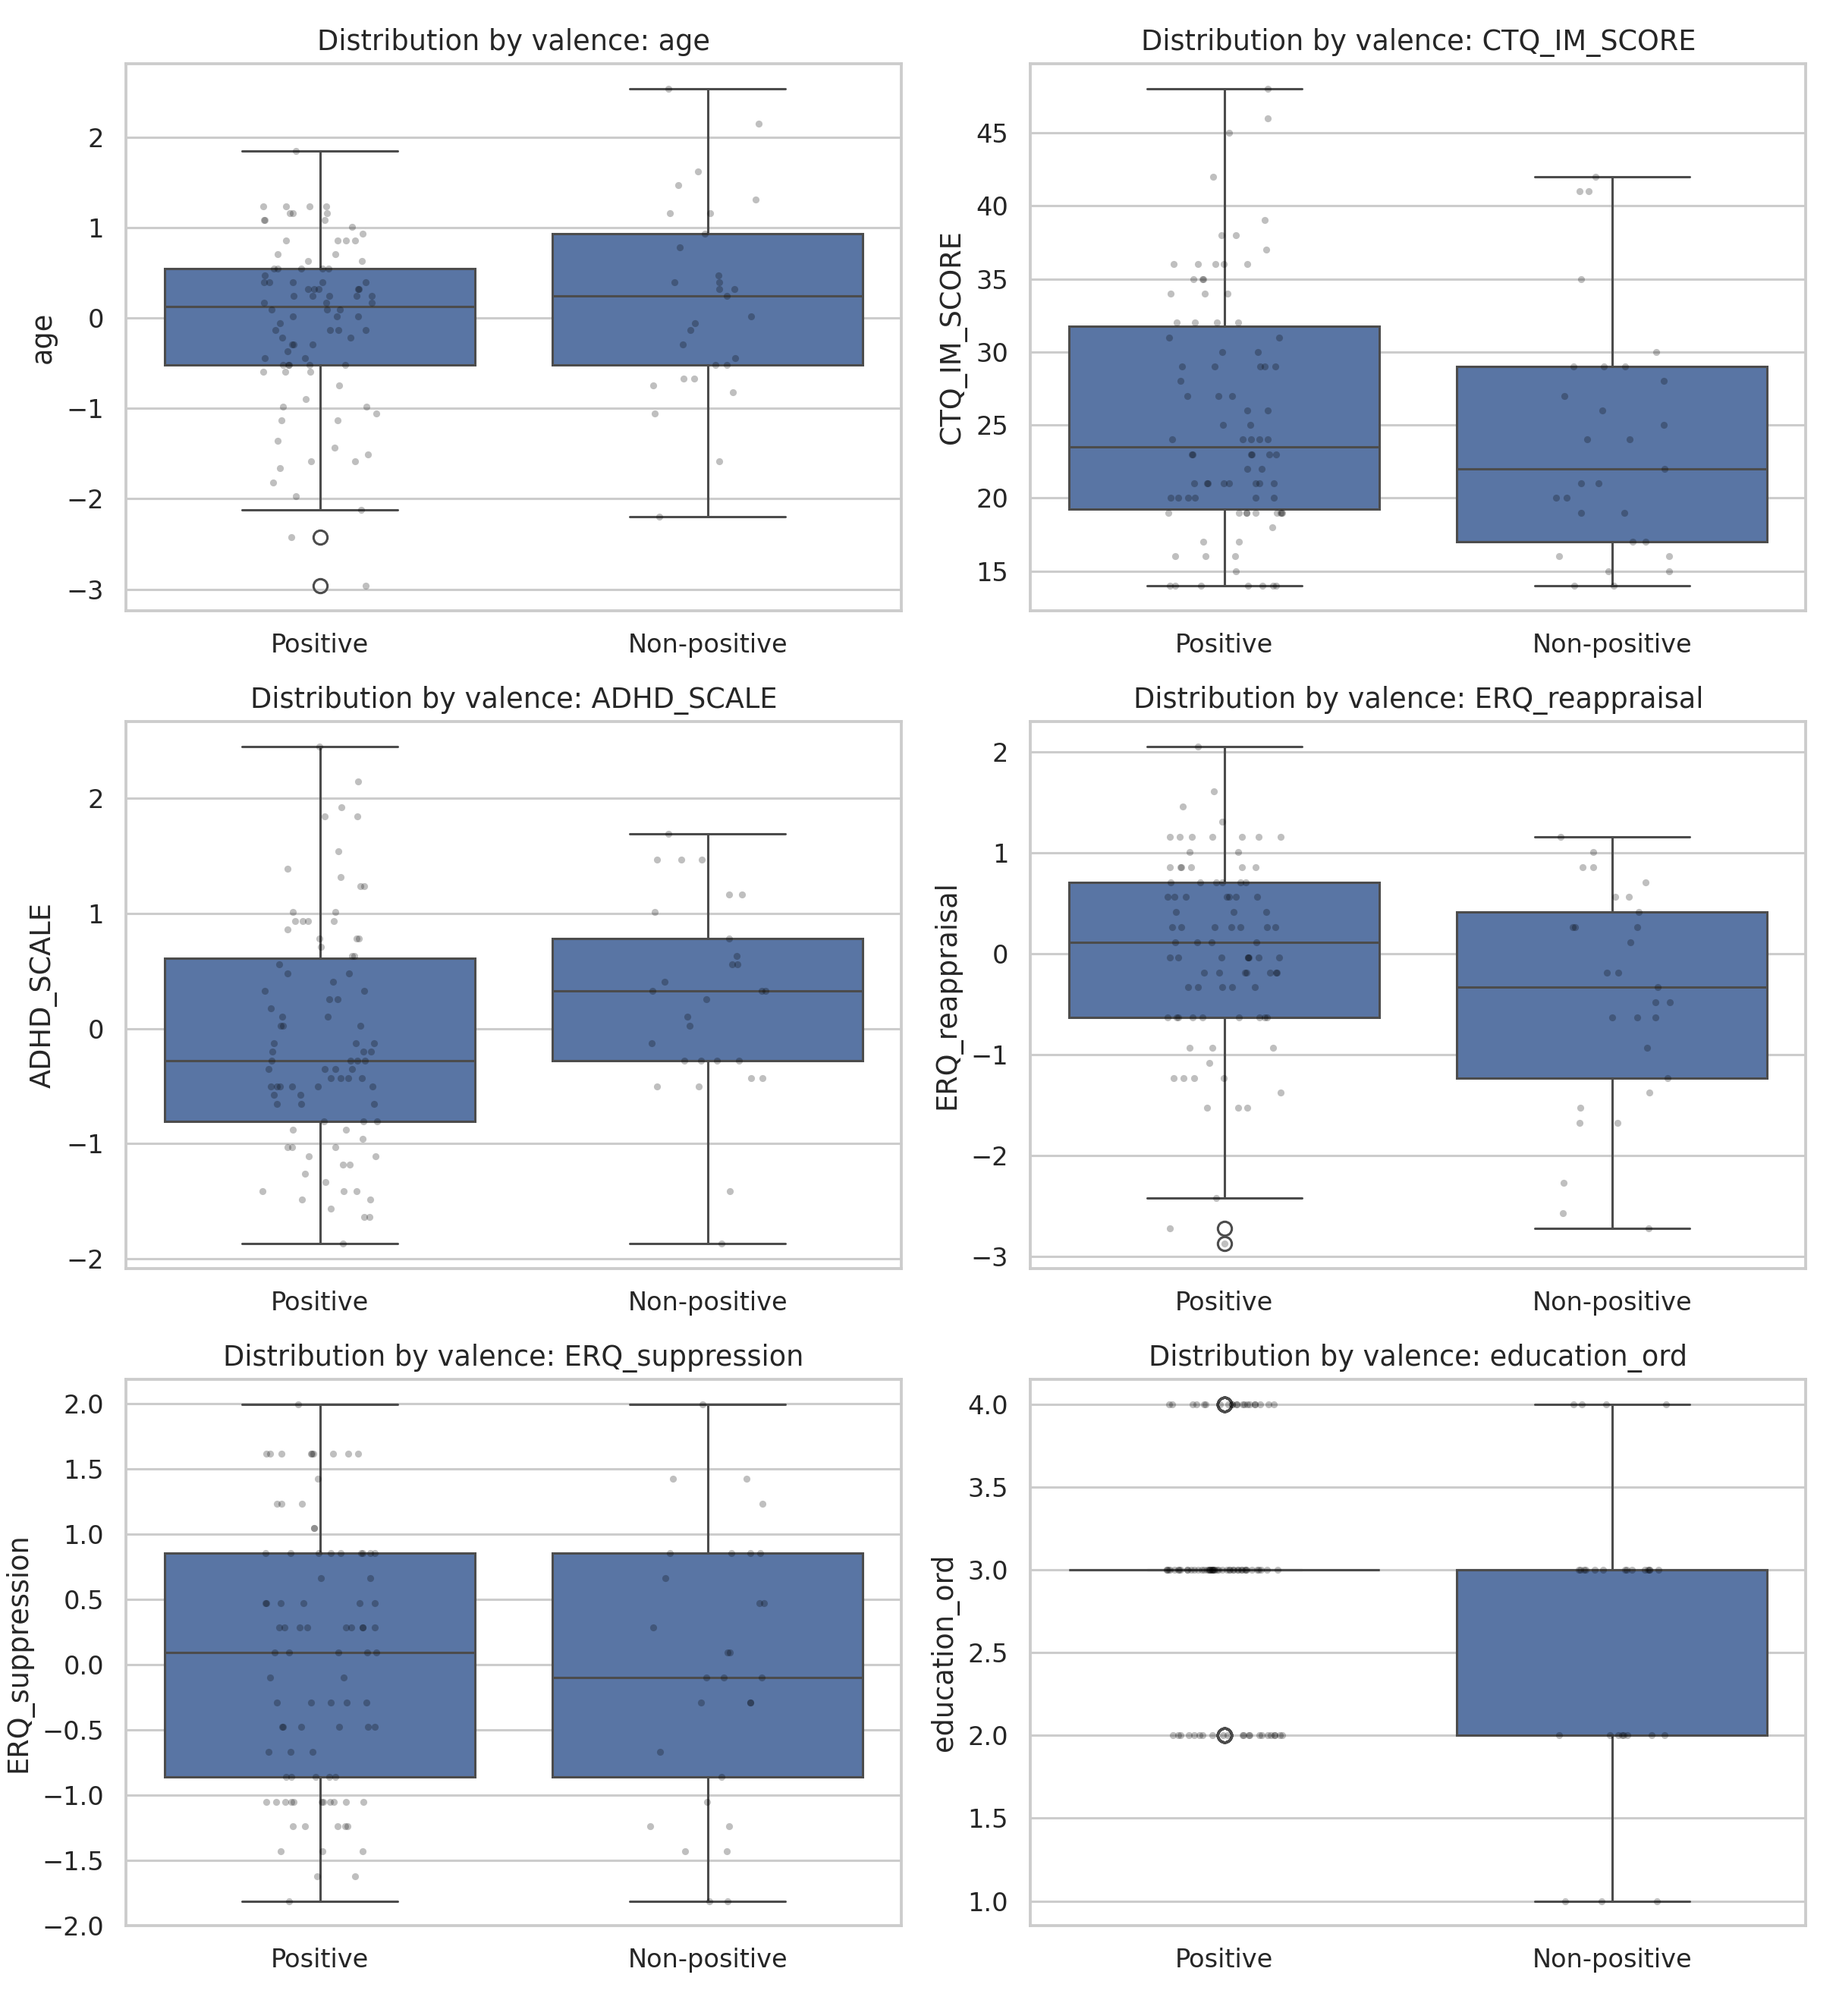
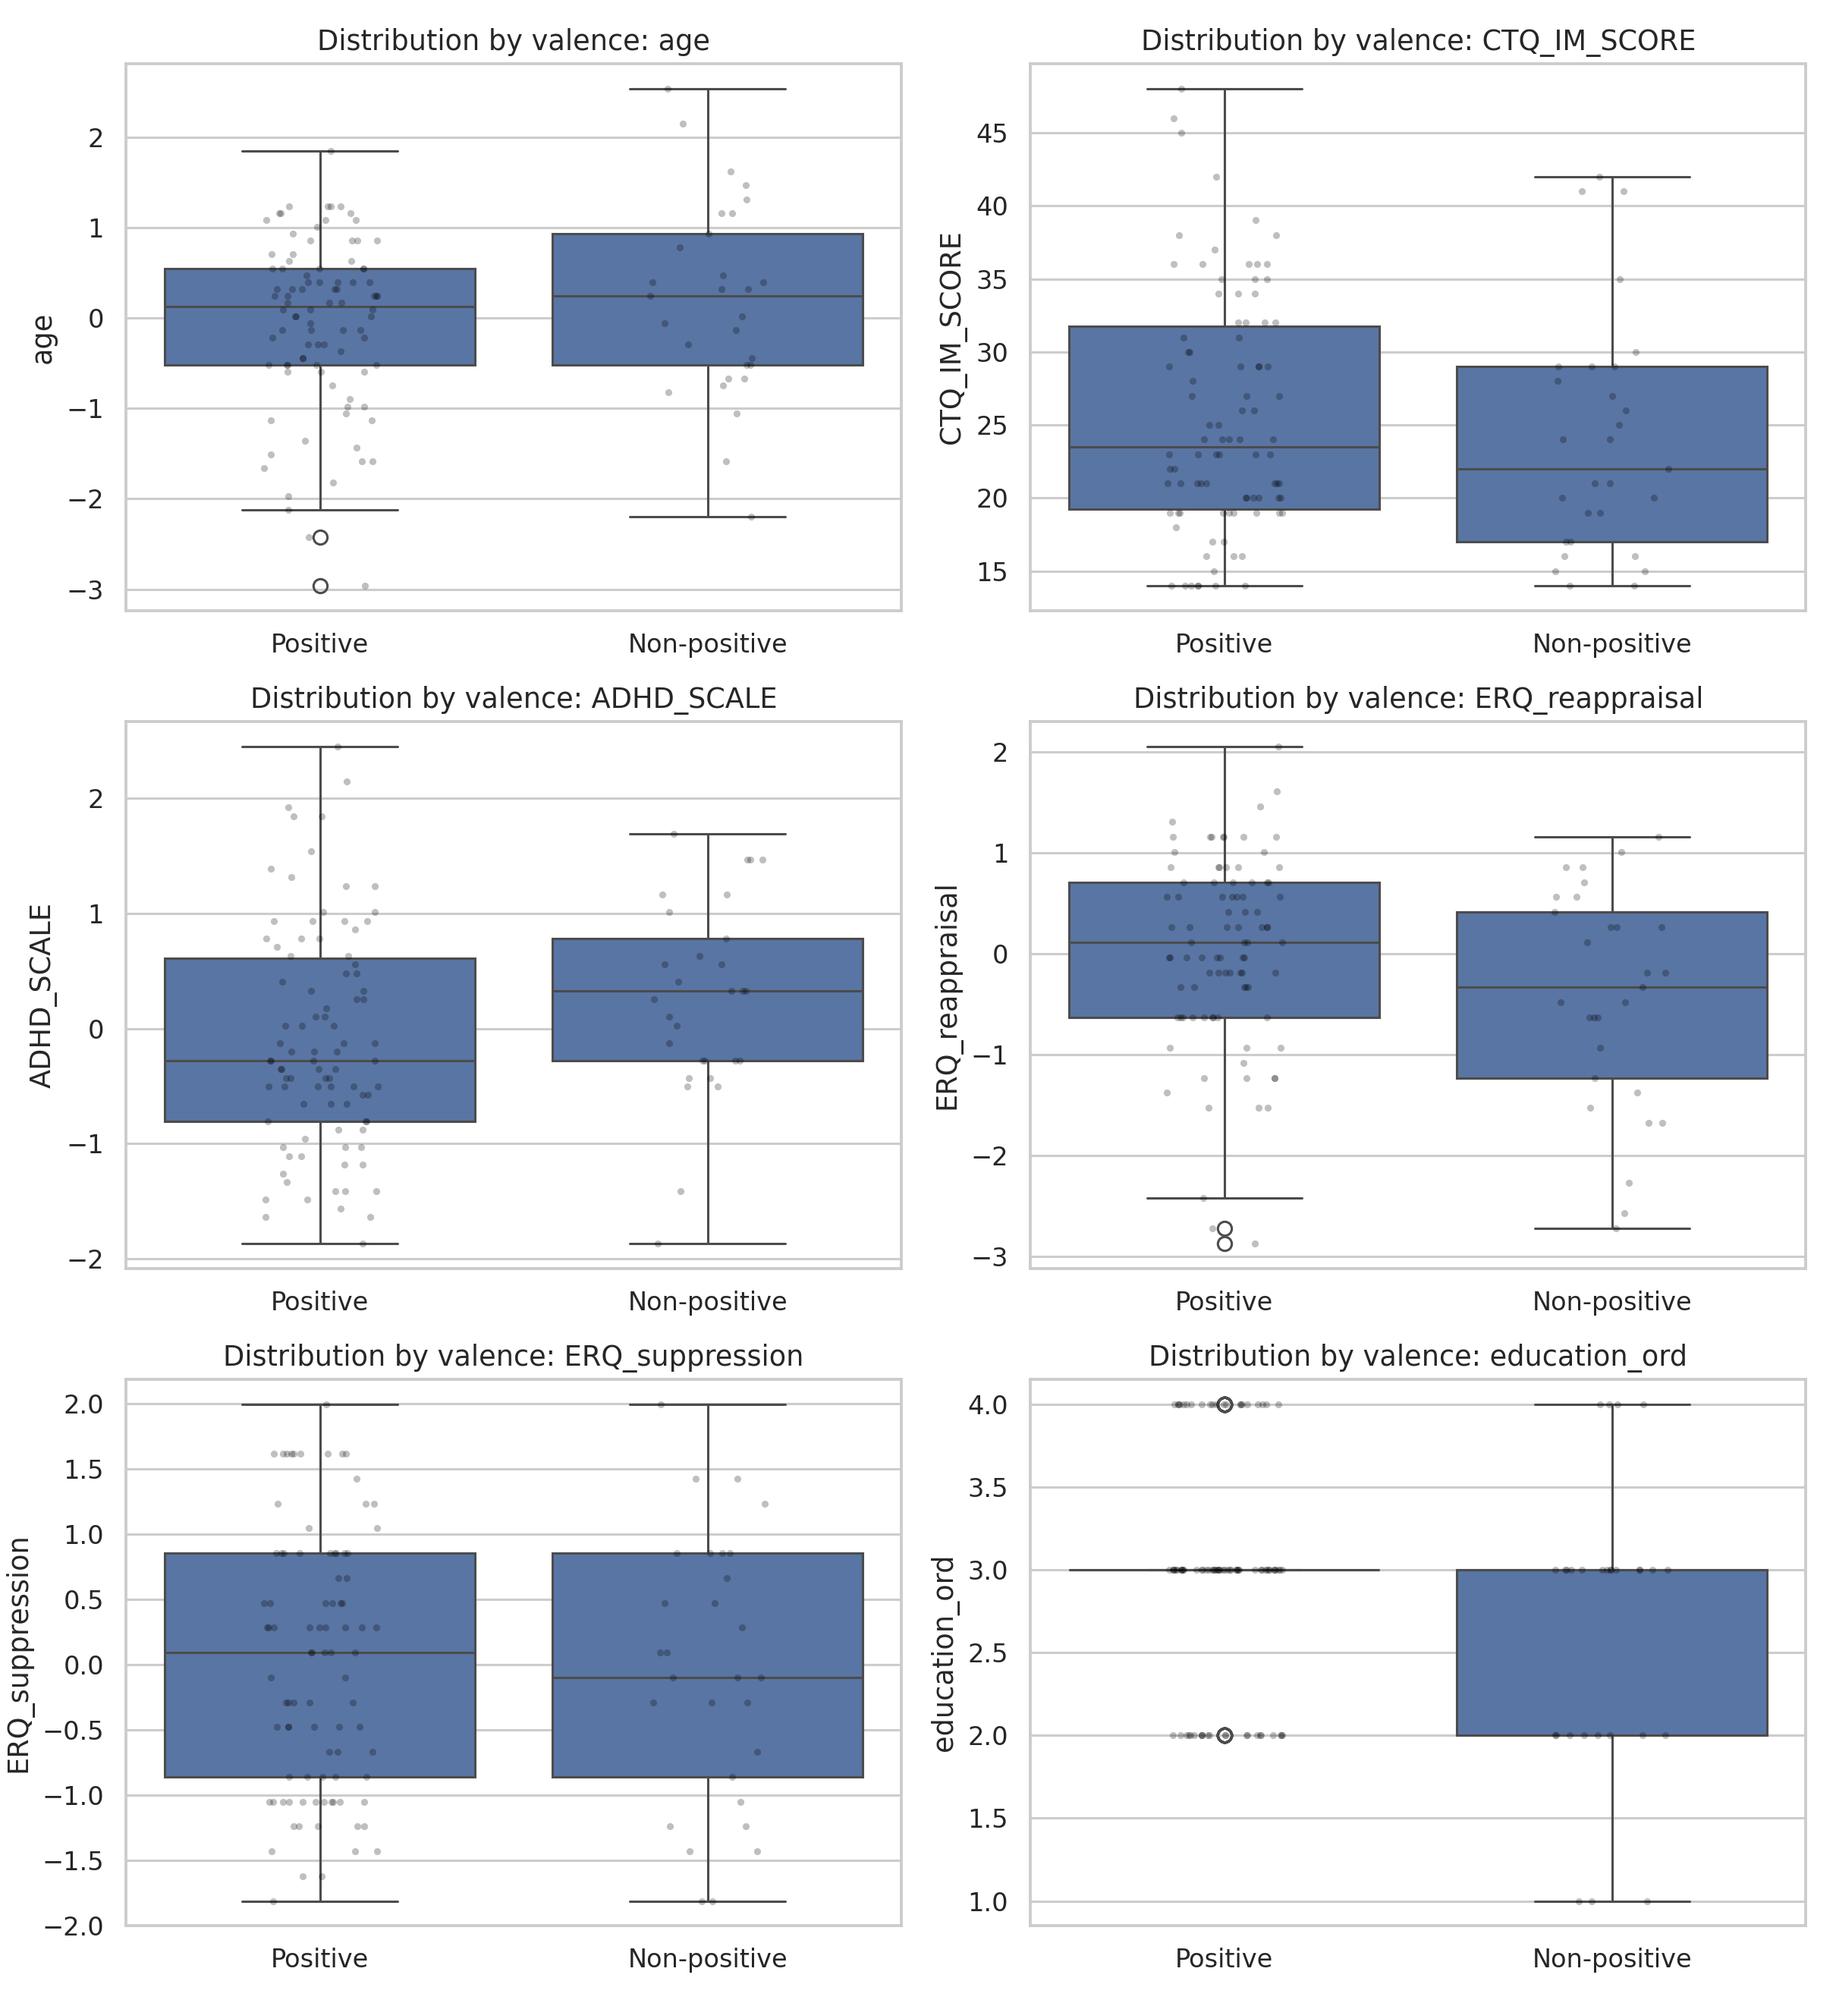
feat(reporting): use available-case N in variable-n covariate diagnostics

diff --git a/src/nde_analysis/cli.py b/src/nde_analysis/cli.py
@@ -241,7 +241,10 @@ def run_valence_pipeline(cfg: AppConfig, prep) -> dict[str, Path]:
 
 
 def run_post_effects_pipeline(
-    cfg: AppConfig, prep, variant_desc: str = "Variable-N"
+    cfg: AppConfig,
+    prep,
+    variant_desc: str = "Variable-N",
+    covariate_complete_case: bool = False,
 ) -> dict[str, Path]:
     lci = run_lci_analyses(prep.lci_df, prep.lci_score_cols)
 
@@ -261,7 +264,7 @@ def run_post_effects_pipeline(
     cov_diag = build_covariate_diagnostics(
         prep.analysis_df,
         analysis_pretransform_df=prep.analysis_pretransform_df,
-        complete_case=True,
+        complete_case=covariate_complete_case,
     )
     overlap_vars = [
         "age",
@@ -478,10 +481,22 @@ def run_post_effects_pipeline(
     )
 
     report_cov = cfg.reports_dir / "04_covariate_diagnostics_report.md"
+    if covariate_complete_case:
+        analysis_sample_desc = (
+            "complete-case intersection across `valence_binary`, `sex_Male`, "
+            "`age`, `CTQ_IM_SCORE`, `ADHD_SCALE`, `ERQ_reappraisal`, "
+            "`ERQ_suppression`, and `education_ord`."
+        )
+    else:
+        analysis_sample_desc = (
+            "available-case per variable (N varies by covariate and by valence "
+            "group for descriptive summaries and non-parametric balance tests)."
+        )
     render_report(
         template_dir=template_dir,
         template_name="covariate_diagnostics_report.md.j2",
         context={
+            "analysis_sample_desc": analysis_sample_desc,
             "overall_table": _table_text(cov_diag.overall_table),
             "overall_categorical_table": _table_text(
                 cov_diag.overall_categorical_table
@@ -585,6 +600,7 @@ def _run_variant(
     prep,
     command: str,
     variant_desc: str,
+    covariate_complete_case: bool,
 ) -> tuple[list[Path], list[Path]]:
     ensure_directories(cfg.output_dir, cfg.figures_dir, cfg.tables_dir, cfg.reports_dir)
     generated_reports: list[Path] = []
@@ -606,7 +622,12 @@ def _run_variant(
         )
 
     if command in {"run-all", "run-post-effects"}:
-        out_post = run_post_effects_pipeline(cfg, prep, variant_desc=variant_desc)
+        out_post = run_post_effects_pipeline(
+            cfg,
+            prep,
+            variant_desc=variant_desc,
+            covariate_complete_case=covariate_complete_case,
+        )
         generated_reports.extend(
             [
                 out_post["report_lci"],
@@ -670,12 +691,14 @@ def main() -> None:
         prep,
         command=args.command,
         variant_desc="Variable-N (available-case per outcome)",
+        covariate_complete_case=False,
     )
     fixed_reports, _ = _run_variant(
         fixed_cfg,
         fixed_prep,
         command=args.command,
         variant_desc="Fixed-N complete-case (rows with missing values removed upfront)",
+        covariate_complete_case=True,
     )
 
     LOGGER.info("Run complete. Variable summary: %s", variable_reports[0])

diff --git a/outputs/latest/variable_n/reports/04_covariate_diagnostics_report.md b/outputs/latest/variable_n/reports/04_covariate_diagnostics_report.md
@@ -8,7 +8,7 @@ Evaluate covariate overlap and group balance between positive and non-positive v
 
 - Continuous and ordinal covariates: Mann-Whitney U tests.
 - Categorical covariate (`sex_Male`): chi-square test.
-- Analysis sample: complete-case intersection across `valence_binary`, `sex_Male`, `age`, `CTQ_IM_SCORE`, `ADHD_SCALE`, `ERQ_reappraisal`, `ERQ_suppression`, and `education_ord`.
+- Analysis sample: available-case per variable (N varies by covariate and by valence group for descriptive summaries and non-parametric balance tests).
 - Multiple-testing control: Benjamini-Hochberg FDR correction across balance tests.
 - Visual diagnostics:
   - KDE overlap by valence
@@ -19,50 +19,50 @@ Evaluate covariate overlap and group balance between positive and non-positive v
 
 ```
        variable   n   mean    std
-            age 143 60.797 13.078
-   CTQ_IM_SCORE 143 24.748  7.755
-     ADHD_SCALE 143 26.671 13.056
-ERQ_reappraisal 143  4.696  1.112
-ERQ_suppression 143  3.390  1.321
-  education_ord 143  2.839  0.819
+            age 217 60.793 13.127
+   CTQ_IM_SCORE 164 24.549  7.707
+     ADHD_SCALE 161 26.646 13.247
+ERQ_reappraisal 156  4.706  1.120
+ERQ_suppression 156  3.380  1.318
+  education_ord 202  2.827  0.782
 ```
 
 ### Categorical Variable Summary
 
 ```
 variable          top_category  top_pct   n
-sex_Male Female/other baseline    60.14 143
+sex_Male Female/other baseline   58.986 217
 ```
 
 ## Descriptive Summary by Valence
 
 ```
        variable      valence  count   mean   std  median    min    max
-            age Non-positive     35  0.118 1.080   0.016 -2.198  2.536
-            age     Positive    108 -0.038 0.973   0.207 -2.962  1.848
-   CTQ_IM_SCORE Non-positive     35 23.657 7.700  21.000 14.000 42.000
-   CTQ_IM_SCORE     Positive    108 25.102 7.776  23.000 14.000 48.000
-     ADHD_SCALE Non-positive     35  0.167 0.859   0.254 -1.866  1.693
-     ADHD_SCALE     Positive    108 -0.052 1.025  -0.276 -1.866  2.753
-ERQ_reappraisal Non-positive     35 -0.266 1.089  -0.035 -2.724  1.757
-ERQ_reappraisal     Positive    108  0.074 0.956   0.263 -2.873  2.055
-ERQ_suppression Non-positive     35  0.053 1.041   0.091 -1.812  1.995
-ERQ_suppression     Positive    108 -0.007 0.999   0.091 -1.812  1.995
-  education_ord Non-positive     35  2.657 0.968   3.000  0.000  4.000
-  education_ord     Positive    108  2.898 0.760   3.000  0.000  4.000
+            age Non-positive     56  0.054 1.124  -0.022 -2.198  2.536
+            age     Positive    161 -0.019 0.959   0.245 -2.962  2.077
+   CTQ_IM_SCORE Non-positive     43 23.721 7.484  22.000 14.000 42.000
+   CTQ_IM_SCORE     Positive    121 24.843 7.793  23.000 14.000 48.000
+     ADHD_SCALE Non-positive     42  0.149 0.928   0.178 -1.866  1.920
+     ADHD_SCALE     Positive    119 -0.053 1.027  -0.276 -1.866  2.753
+ERQ_reappraisal Non-positive     40 -0.267 1.117  -0.185 -2.724  1.906
+ERQ_reappraisal     Positive    116  0.092 0.949   0.263 -2.873  2.055
+ERQ_suppression Non-positive     40 -0.004 1.064   0.091 -1.812  1.995
+ERQ_suppression     Positive    116  0.001 0.986   0.091 -1.812  1.995
+  education_ord Non-positive     51  2.745 0.868   3.000  0.000  4.000
+  education_ord     Positive    151  2.854 0.752   3.000  0.000  4.000
 ```
 
 ## Balance Tests
 
 ```
        variable               type  p_value  mean_positive  mean_non_positive  p_value_fdr p_value_fdr_reject
-ERQ_reappraisal continuous/ordinal    0.111          0.074             -0.266        0.424                 No
-     ADHD_SCALE continuous/ordinal    0.121         -0.052              0.167        0.424                 No
-   CTQ_IM_SCORE continuous/ordinal    0.288         25.102             23.657        0.504                 No
-  education_ord continuous/ordinal    0.259          2.898              2.657        0.504                 No
-            age continuous/ordinal    0.697         -0.038              0.118        0.907                 No
-ERQ_suppression continuous/ordinal    0.778         -0.007              0.053        0.907                 No
-       sex_Male        categorical    1.000          0.398              0.400        1.000                 No
+ERQ_reappraisal continuous/ordinal    0.058          0.092             -0.267        0.406                 No
+     ADHD_SCALE continuous/ordinal    0.118         -0.053              0.149        0.412                 No
+   CTQ_IM_SCORE continuous/ordinal    0.413         24.843             23.721        0.964                 No
+            age continuous/ordinal    0.829         -0.019              0.054        0.976                 No
+ERQ_suppression continuous/ordinal    0.976          0.001             -0.004        0.976                 No
+  education_ord continuous/ordinal    0.571          2.854              2.745        0.976                 No
+       sex_Male        categorical    0.883          0.416              0.393        0.976                 No
 ```
 
 ## Figures

diff --git a/outputs/latest/fixed_n_complete_case/reports/00_run_summary.md b/outputs/latest/fixed_n_complete_case/reports/00_run_summary.md
@@ -9,8 +9,6 @@
 ## Generated Reports
 
 
-- `outputs/latest/fixed_n_complete_case/reports/01_valence_multivariate_report.md`
-
 - `outputs/latest/fixed_n_complete_case/reports/02_post_effects_lci_report.md`
 
 - `outputs/latest/fixed_n_complete_case/reports/03_adjusted_models_comparison_report.md`
@@ -22,20 +20,6 @@
 
 ## Generated Figures
 
-
-- `outputs/latest/fixed_n_complete_case/figures/valence_model1_or_forest.png`
-
-- `outputs/latest/fixed_n_complete_case/figures/valence_model2_or_forest.png`
-
-- `outputs/latest/fixed_n_complete_case/figures/valence_model3_or_forest.png`
-
-- `outputs/latest/fixed_n_complete_case/figures/valence_model3_roc.png`
-
-- `outputs/latest/fixed_n_complete_case/figures/valence_model3_predicted_probabilities.png`
-
-- `outputs/latest/fixed_n_complete_case/figures/valence_multicollinearity_vif.png`
-
-- `outputs/latest/fixed_n_complete_case/figures/valence_predictor_correlation_heatmap.png`
 
 - `outputs/latest/fixed_n_complete_case/figures/lci_median_heatmap_by_valence.png`
 

diff --git a/outputs/latest/variable_n/reports/00_run_summary.md b/outputs/latest/variable_n/reports/00_run_summary.md
@@ -9,8 +9,6 @@
 ## Generated Reports
 
 
-- `outputs/latest/variable_n/reports/01_valence_multivariate_report.md`
-
 - `outputs/latest/variable_n/reports/02_post_effects_lci_report.md`
 
 - `outputs/latest/variable_n/reports/03_adjusted_models_comparison_report.md`
@@ -22,20 +20,6 @@
 
 ## Generated Figures
 
-
-- `outputs/latest/variable_n/figures/valence_model1_or_forest.png`
-
-- `outputs/latest/variable_n/figures/valence_model2_or_forest.png`
-
-- `outputs/latest/variable_n/figures/valence_model3_or_forest.png`
-
-- `outputs/latest/variable_n/figures/valence_model3_roc.png`
-
-- `outputs/latest/variable_n/figures/valence_model3_predicted_probabilities.png`
-
-- `outputs/latest/variable_n/figures/valence_multicollinearity_vif.png`
-
-- `outputs/latest/variable_n/figures/valence_predictor_correlation_heatmap.png`
 
 - `outputs/latest/variable_n/figures/lci_median_heatmap_by_valence.png`
 
